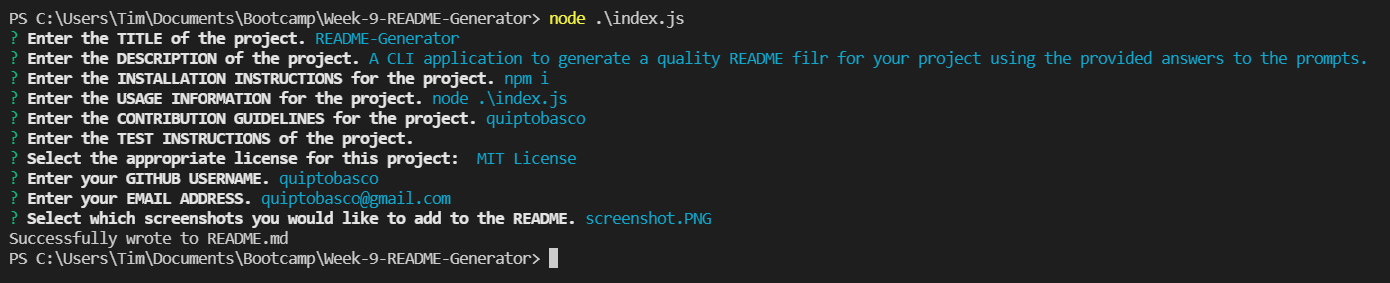
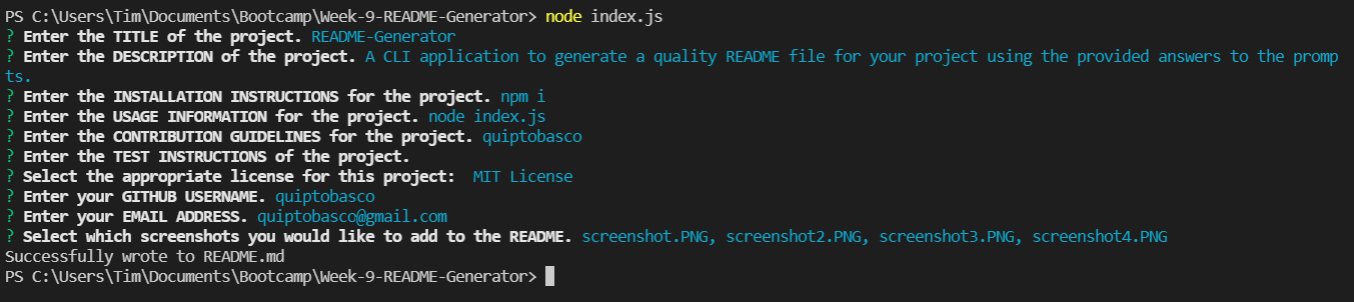
removed some screenshots, fixed a few typos

Changed region(s): [[0.0, 0.0283, 0.9926, 0.9611]]

diff --git a/index.js b/index.js
@@ -24,17 +24,7 @@ function generateLicenses() {
     });
 }
 
-// function getLicenseText(array) {
-//     for (let value of Object.values(array)) {
-//         if (value.name == license && value.name !== 'None') {
-//     axios.get(URL)
-//     .then(function () {
-//         console.log(response.data);
-//     })
-//     .catch(function (error) {
-//         console.log('There was an error with the API call: ' + error);
-//     });
-// }
+// 
 
 // TODO: Create an array of questions for user input
 const questions = [{
@@ -122,8 +112,6 @@ const init = () => {
     .then((answers) => writeToFile('README.md', generateMarkdown(answers, licensesArray)))
     .then(() => console.log('Successfully wrote to README.md'))
     .catch((err) => console.error('OH NO THERE WAS AN ERROR!!!' + err));
-
-    // console.log(answers.License);
 };
 
 // Function call to initialize app

diff --git a/utils/generateMarkdown.js b/utils/generateMarkdown.js
@@ -40,7 +40,7 @@ function generateLinks(license, array) {
         if (value.name == license && value.name !== 'None') {
             id = value.spdx_id;
             licenseSection = `## License 
-Licensed under the [${license}](https://choosealicense.com/licenses/${value.key}/) license.`;
+Licensed under the [${license}](https://choosealicense.com/licenses/${value.key}/).`;
         }
     }
 }

diff --git a/README.md b/README.md
@@ -10,7 +10,7 @@
 - [License](#license)
 
 ## Description
-A CLI application to generate a quality README filr for your project using the provided answers to the prompts.
+A CLI application to generate a quality README file for your project using the provided answers to the prompts.
 
 ## Screenshots
 ![screenshot](./assets/images/screenshot.PNG)
@@ -22,10 +22,10 @@ A CLI application to generate a quality README filr for your project using the p
 npm i
 
 ## Usage
-node .\index.js
+node index.js
 
 ## License 
-Licensed under the [MIT License](https://choosealicense.com/licenses/mit/) license.
+Licensed under the [MIT License](https://choosealicense.com/licenses/mit/).
 
 ## Questions
 Any questions?
